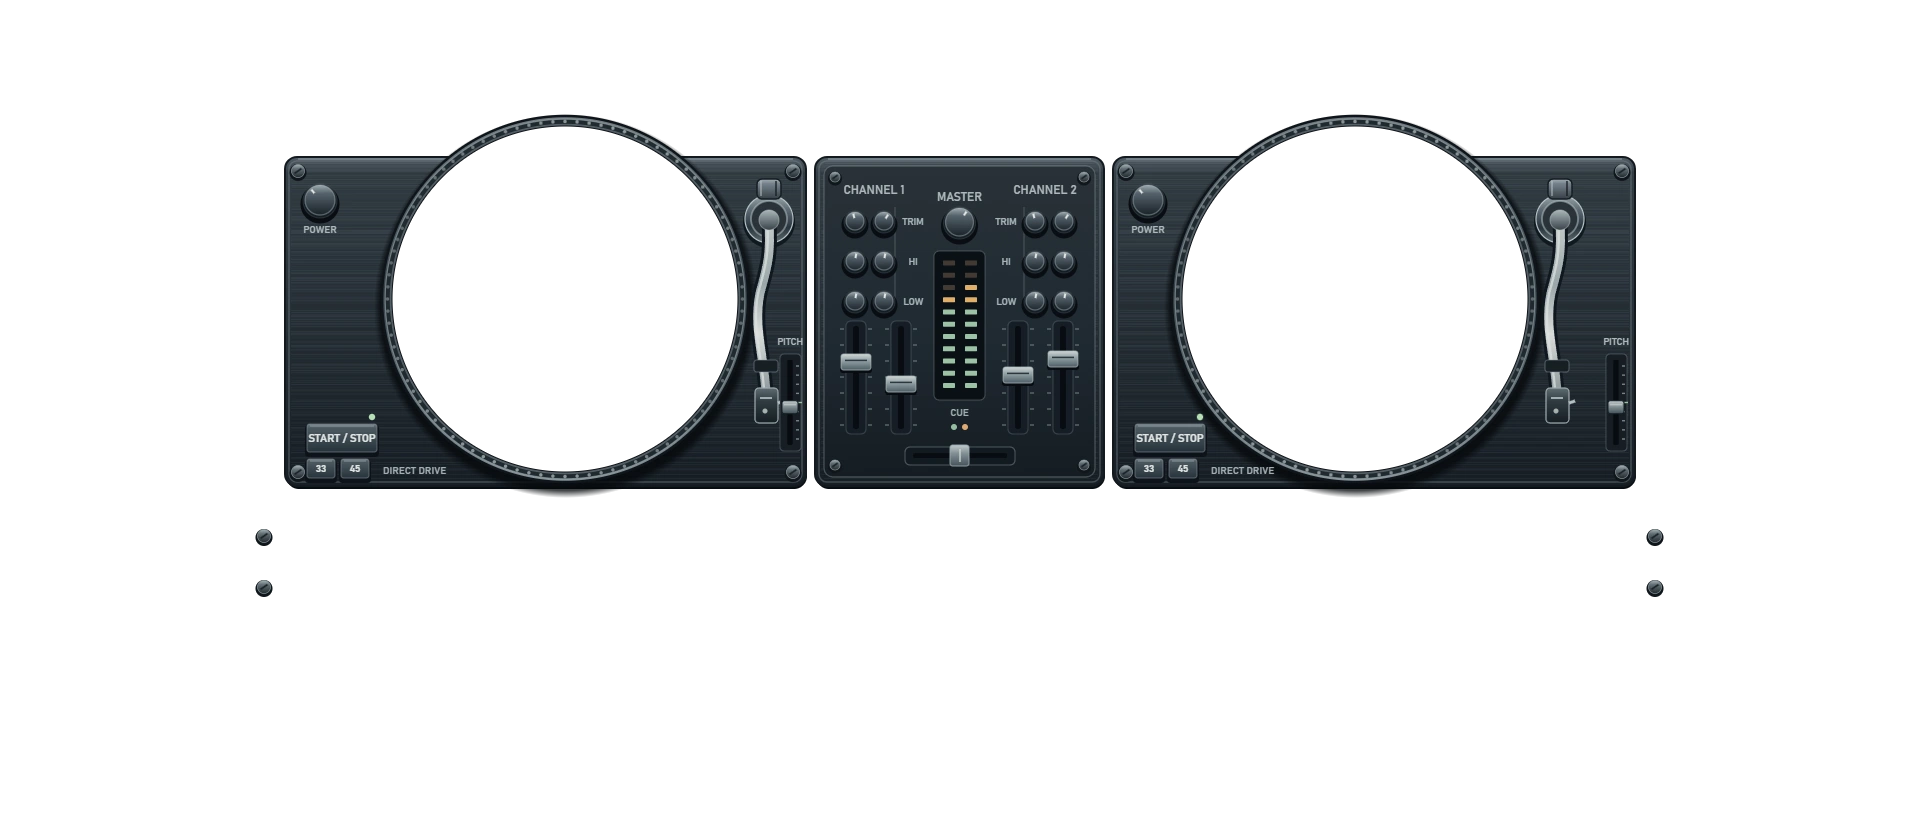
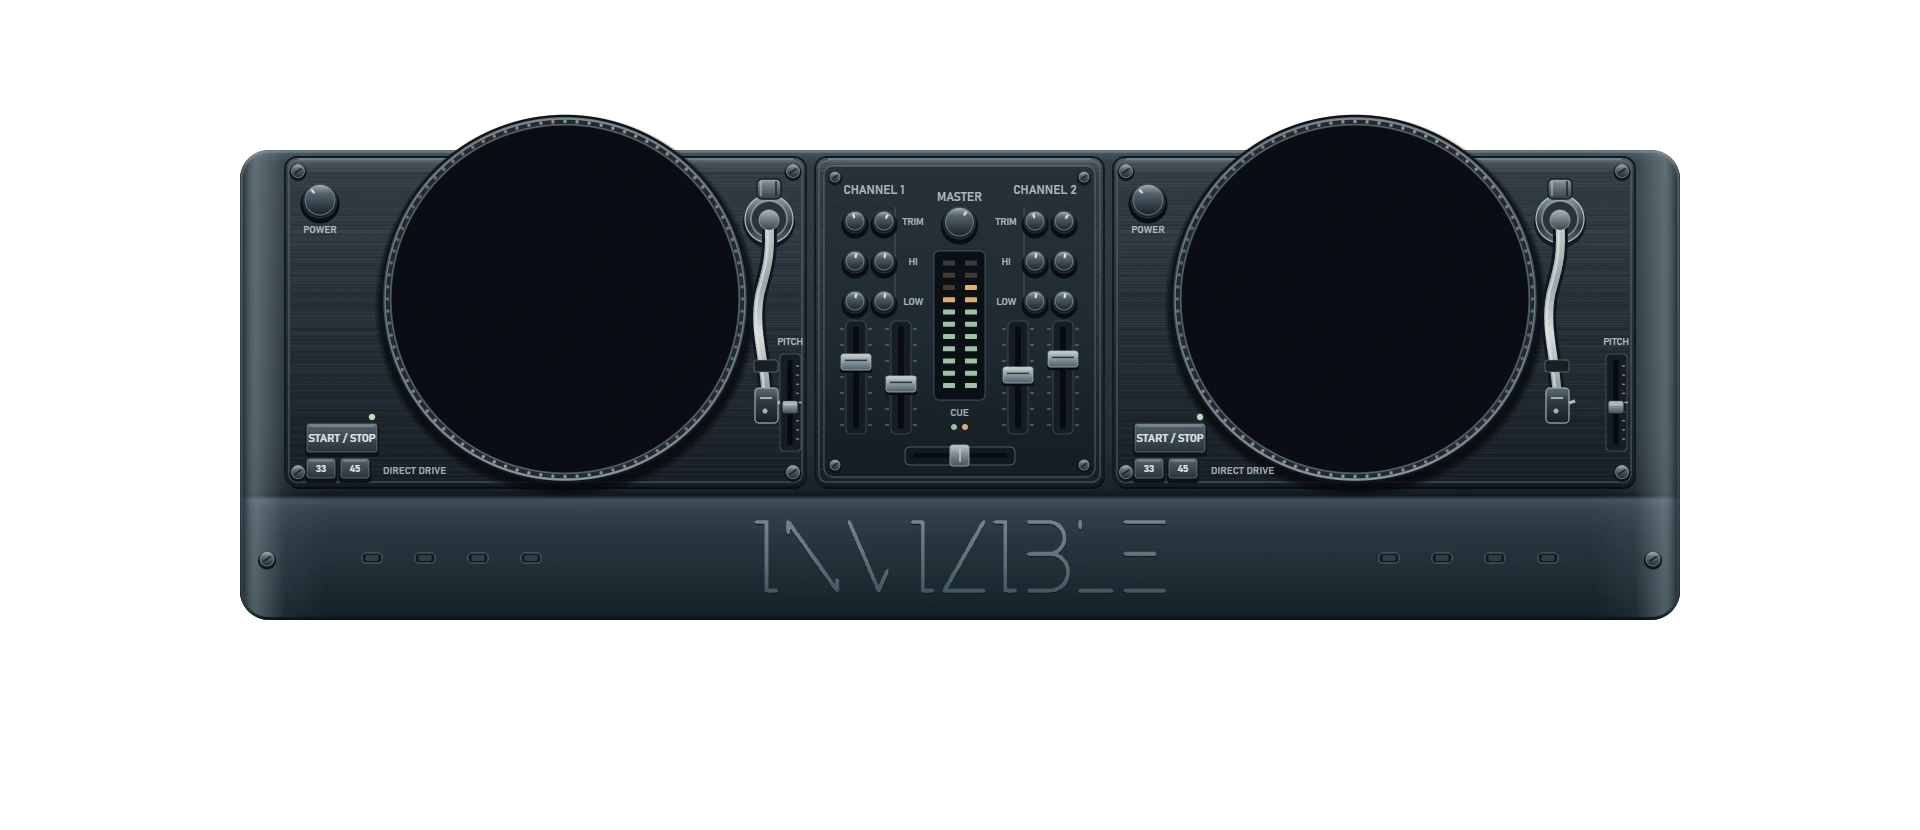
turntables

Changed region(s): [[0.125, 0.1506, 0.875, 0.753]]

diff --git a/assets/js/booth-3d.js b/assets/js/booth-3d.js
@@ -6,7 +6,7 @@ const reduced = matchMedia('(prefers-reduced-motion: reduce)');
 const models = new Map();
 const loading = new Map();
 const paths = { invizible: '/assets/models/doom-booth.glb', maverick: '/assets/models/maverick-booth.glb' };
-let deckHardware;
+let deckTexture;
 let persona = document.body.classList.contains('theme-maverick') ? 'maverick' : 'invizible';
 let merchOpen = document.body.classList.contains('merch-open');
 let active;
@@ -61,10 +61,11 @@ function glow(width, height, x, y, z, color, opacity) {
 const floorGlow = glow(1.04, .09, 0, .004, -.21, 0x96cbb0, .32);
 const floorShadow = glow(.79, .042, 0, .004, -.19, 0x000000, .72);
 const leds = [];
-for (let i = 0; i < 13; i++) {
-  const x = -.28 + i * (.56 / 12);
-  const halo = glow(.038, .027, x, .323 - x * .0008, .403, 0xb3dcc4, .25);
-  const bulb = new THREE.Mesh(new THREE.PlaneGeometry(.008, .0035),
+// Match the sockets in the 1920-pixel-wide chassis texture.
+for (const column of [372, 425, 478, 531, 1389, 1442, 1495, 1548]) {
+  const x = (column / 1920 - .5) * .8577 - .0063;
+  const halo = glow(.022, .016, x, .3364 - x * .00066, .326 - x * .006, 0xb3dcc4, .18);
+  const bulb = new THREE.Mesh(new THREE.PlaneGeometry(.0054, .0022),
     new THREE.MeshBasicMaterial({ color: 0xb3dcc4, transparent: true, opacity: .7, depthWrite: false, toneMapped: false }));
   bulb.position.copy(halo.position);
   bulb.position.z += .001;
@@ -83,8 +84,8 @@ function updateStage() {
     const breathe = motion ? .5 + .5 * Math.sin(elapsed * 1.05 + i * .24) : .5;
     halo.material.color.copy(stageColor);
     bulb.material.color.copy(stageColor);
-    halo.material.opacity = (compact ? .15 : .22) + breathe * .09 + (scratch ? .13 : 0);
-    bulb.material.opacity = .48 + breathe * .18 + (scratch ? .22 : 0);
+    halo.material.opacity = (compact ? .10 : .15) + breathe * .07 + (scratch ? .11 : 0);
+    bulb.material.opacity = .46 + breathe * .18 + (scratch ? .22 : 0);
   });
   host.dataset.stageLighting = reduced.matches ? 'still' : scratch ? 'scratch' : 'idle';
 }
@@ -112,26 +113,23 @@ function play(model, mode, instant = false) {
   host.dataset.animation = mode;
 }
 
-function loadDeckHardware() {
-  deckHardware ??= new THREE.TextureLoader().loadAsync('/assets/images/booth-deck-hardware.webp')
-    .then(map => {
-      map.flipY = false;
-      map.colorSpace = THREE.SRGBColorSpace;
-      return new THREE.MeshBasicMaterial({
-        map, transparent: true, depthWrite: false, toneMapped: false,
-        polygonOffset: true, polygonOffsetFactor: -1, polygonOffsetUnits: -1
-      });
+function loadDeckTexture() {
+  deckTexture ??= new THREE.TextureLoader().loadAsync('/assets/images/booth-deck-hardware.webp')
+    .then(texture => {
+      texture.flipY = false;
+      texture.colorSpace = THREE.SRGBColorSpace;
+      return texture;
     })
-    .catch(() => null); // Keep the deck built into the model if the detail layer fails to load.
-  return deckHardware;
+    .catch(() => null); // Fall back to the texture embedded in the model.
+  return deckTexture;
 }
 
 async function loadModel(id) {
   if (models.has(id)) return models.get(id);
   if (loading.has(id)) return loading.get(id);
   const promise = (async () => {
-    const [gltf, hardware] = await Promise.all([
-      new GLTFLoader().loadAsync(paths[id]), loadDeckHardware()
+    const [gltf, texture] = await Promise.all([
+      new GLTFLoader().loadAsync(paths[id]), loadDeckTexture()
     ]);
     const mixer = new THREE.AnimationMixer(gltf.scene);
     const right = gltf.scene.getObjectByName('Vinyl_Right');
@@ -176,13 +174,14 @@ async function loadModel(id) {
       if (object.name.startsWith('Vinyl_')) object.renderOrder = 1;
     });
     const deck = gltf.scene.getObjectByName('Deck_reference_plane');
-    if (deck?.isMesh && hardware) {
-      // Reuse the deck UVs. The vinyl keeps its own texture, transforms and render order.
-      const details = new THREE.Mesh(deck.geometry, hardware);
-      details.name = 'Deck_Hardware_Details';
-      details.renderOrder = .5;
-      deck.add(details);
+    if (deck?.isMesh && texture) {
+      // The model shares the original material with the rotating records.
+      deck.material = deck.material.clone();
+      deck.material.map = texture;
+      deck.material.toneMapped = false;
     }
+    const support = gltf.scene.getObjectByName('Stand_Top_Support');
+    if (support) support.position.z -= .016; // Seat the rail behind the sloped front face.
     mixer.addEventListener('finished', event => {
       if (event.action !== model.action) return;
       if (model.mode === 'scratch' || model.mode === 'close') {
